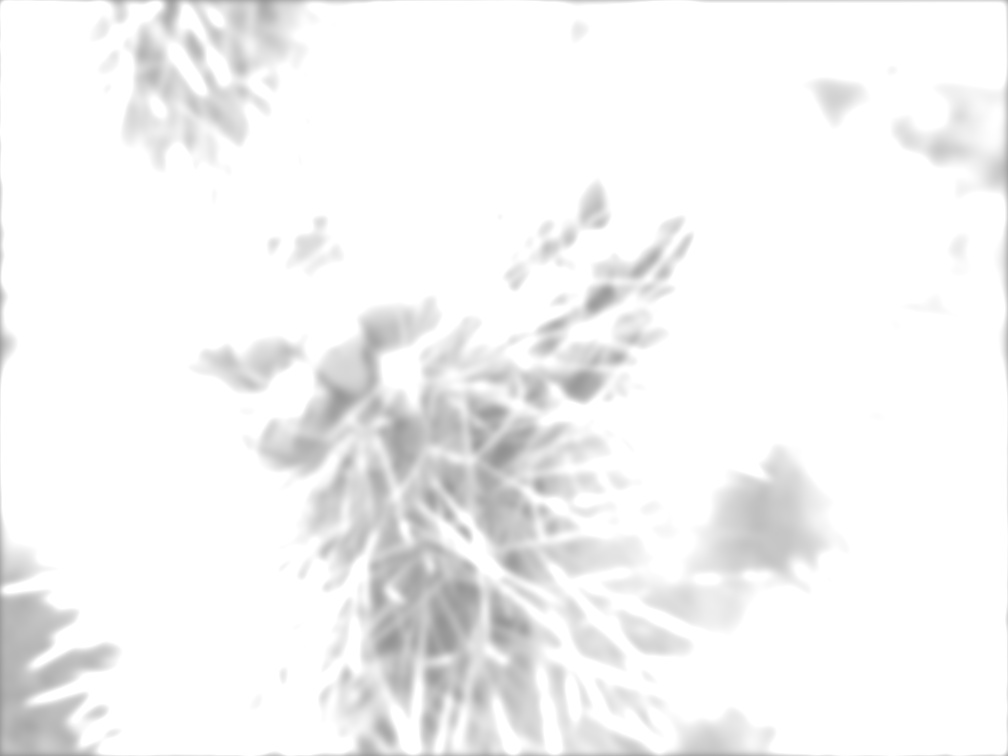
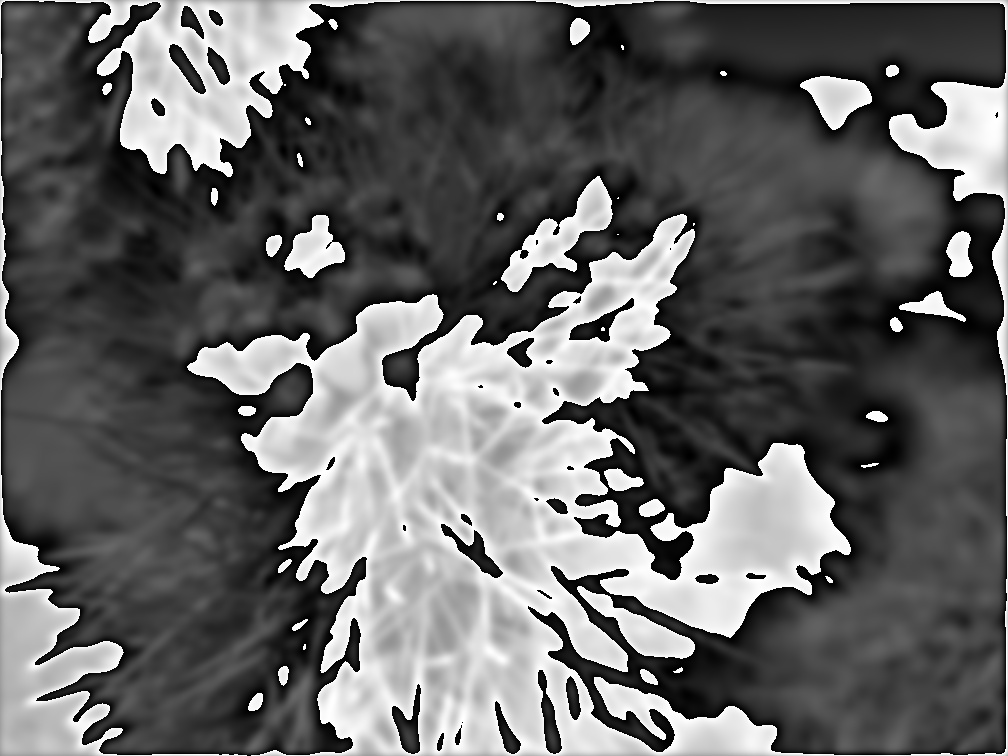
feat: add ex5

diff --git a/homework1/ex4.py b/homework1/ex4.py
@@ -30,10 +30,10 @@ def second_deriv_image(image : np.ndarray, sigma : float, in_place : bool = Fals
     return image_out
 
 # Use
-#img_input = cv2.imread('ex4_input.jpg', cv2.IMREAD_GRAYSCALE).astype("float32")
-#img_result = first_deriv_image_x(img_input, 4)
-#cv2.imwrite('ex4a_output.jpg', img_result)
-#img_result = first_deriv_image_x(img_input, 4)
-#cv2.imwrite('ex4b_output.jpg', img_result)
-#img_result = first_deriv_image_x(img_input, 4)
-#cv2.imwrite('ex4c_output.jpg', img_result)
+img_input = cv2.imread('ex4_input.jpg', cv2.IMREAD_GRAYSCALE).astype("float32")
+img_result = first_deriv_image_x(img_input, 4).astype("uint8")
+cv2.imwrite('ex4a_output.jpg', img_result)
+img_result = first_deriv_image_x(img_input, 4).astype("uint8")
+cv2.imwrite('ex4b_output.jpg', img_result)
+img_result = first_deriv_image_x(img_input, 4).astype("uint8")
+cv2.imwrite('ex4c_output.jpg', img_result)

diff --git a/homework1/ex5.py b/homework1/ex5.py
@@ -1,0 +1,16 @@
+import cv2
+import numpy as np
+import os
+import math
+from ex4 import second_deriv_image
+os.chdir('C:\\Projects\\ITS8030\\homework1')
+"""
+Task 5: Image sharpening
+"""
+def sharpen_image(image : np.ndarray, sigma : float, alpha : float, in_place : bool = False) -> np.ndarray :
+    return image - alpha * second_deriv_image(image, sigma)
+
+# Use
+img_input = cv2.imread('ex5_input.png', cv2.IMREAD_GRAYSCALE).astype("float32")
+img_result = sharpen_image(img_input, 1., 1.).astype("uint8")
+cv2.imwrite('ex5_output.png', img_result)

diff --git a/homework1/ex1.py b/homework1/ex1.py
@@ -22,7 +22,7 @@ def convolution(img_input, kernel, add = False):
     return img_output
 
 # Use
-#img_input = cv2.imread('ex1_input.jpg', cv2.IMREAD_GRAYSCALE)
-#kernel = np.array([[0,-1,0],[-1,2,-1],[0,-1,0]])
-#img_result = convolution(img_input, kernel)
-#cv2.imwrite('ex1_output.jpg', img_result)
+img_input = cv2.imread('ex1_input.jpg', cv2.IMREAD_GRAYSCALE)
+kernel = np.array([[1,1,1],[1,1,1],[1,1,1]])
+img_result = convolution(img_input, kernel).astype("uint8")
+cv2.imwrite('ex1_output.jpg', img_result)

diff --git a/homework1/ex3.py b/homework1/ex3.py
@@ -19,6 +19,6 @@ def separable_gaussian_blur_image(image, sigma):
     return image2
 
 # Use
-#img_input = cv2.imread('ex3_input.jpg', cv2.IMREAD_GRAYSCALE).astype("float32")
-#img_result = separable_gaussian_blur_image(img_input, 4)
-#cv2.imwrite('ex3_output.jpg', img_result)
+img_input = cv2.imread('ex3_input.jpg', cv2.IMREAD_GRAYSCALE).astype("float32")
+img_result = separable_gaussian_blur_image(img_input, 4)
+cv2.imwrite('ex3_output.jpg', img_result)

diff --git a/homework1/ex2.py b/homework1/ex2.py
@@ -29,6 +29,6 @@ def gaussian_blur_kernel(sigma):
     return kernel
 
 # Use
-#img_input = cv2.imread('ex2_input.jpg', cv2.IMREAD_GRAYSCALE)
-#img_result = gaussian_blur_image(img_input, 4)
-#cv2.imwrite('ex2_output.jpg', img_result)
+img_input = cv2.imread('ex2_input.jpg', cv2.IMREAD_GRAYSCALE)
+img_result = gaussian_blur_image(img_input, 4)
+cv2.imwrite('ex2_output.jpg', img_result)
